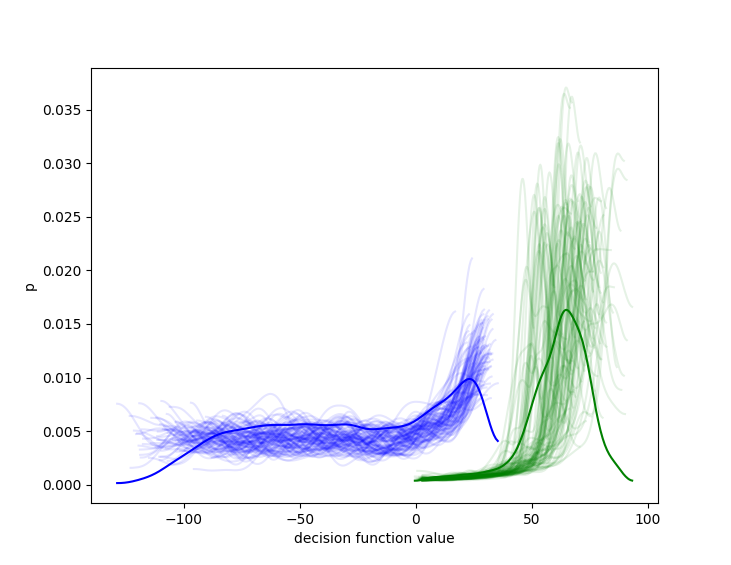
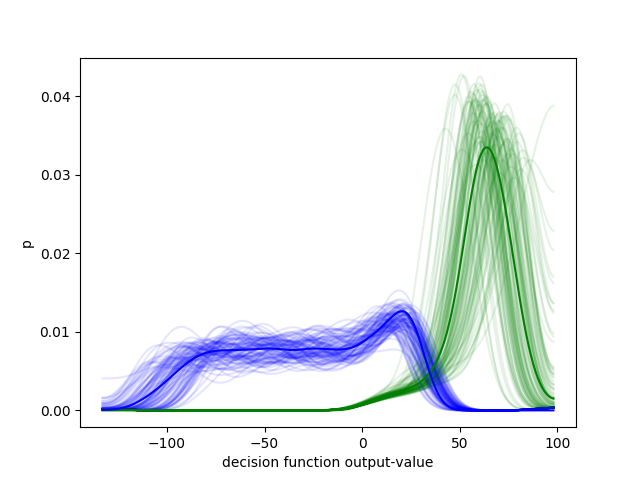
sync

diff --git a/statespace/decisions.py b/statespace/decisions.py
@@ -3,12 +3,40 @@ import matplotlib.pyplot as plt
 
 
 class DecisionsEns():
-    def __init__(self, title):
-        self.title = title
-        self.decisionfunctions = []
+    def __init__(self):
+        self.decisionfunctionssig = []
+        self.decisionfunctionsnoise = []
+        self.rocs = []
 
-    def update(self, decisionfunction):
-        self.decisionfunctions.append(decisionfunction)
+    def addsig(self, decisionfunction):
+        self.decisionfunctionssig.append(decisionfunction)
+
+    def addnoise(self, decisionfunction):
+        self.decisionfunctionsnoise.append(decisionfunction)
+
+    def plot_decisionfunctions(self):
+        from pymc3.plots.kdeplot import fast_kde
+        import matplotlib.pyplot as plt
+        globalmin = np.floor(np.min(self.decisionfunctionsnoise))
+        globalmax = np.ceil(np.max(self.decisionfunctionssig))
+        def pmf(vals):
+            vals = np.append(vals, [globalmin, globalmax])
+            pmf, min, max = fast_kde(vals, bw=4.5)
+            x = np.linspace(min, max, len(pmf))
+            pmf = pmf / sum(pmf)
+            return x, pmf
+        plt.figure()
+        for ndx in range(len(self.decisionfunctionssig)):
+            sigx, sigpmf = pmf(self.decisionfunctionssig[ndx])
+            noisex, noisepmf = pmf(self.decisionfunctionsnoise[ndx])
+            plt.plot(sigx, sigpmf, 'g', alpha=.1)
+            plt.plot(noisex, noisepmf, 'b', alpha=.1)
+        sigx, sigpmf = pmf(self.decisionfunctionssig)
+        noisex, noisepmf = pmf(self.decisionfunctionsnoise)
+        plt.plot(sigx, sigpmf, 'g')
+        plt.plot(noisex, noisepmf, 'b')
+        plt.xlabel('decision function output-value')
+        plt.ylabel('p')
 
 class Decisions():
     def __init__(self, mode, tracker):
@@ -28,40 +56,20 @@ class Decisions():
             else: decisionfunction[ndx] = decisionfunction[ndx-1] + delta
         return decisionfunction
 
-def rccircuit(runs, signal, title=None):
+def rccircuit(runs):
     from classical import Classical
-    ens = DecisionsEns(title)
+    ens = DecisionsEns()
     for runndx in range(runs):
-        tracker = Classical(mode='rccircuit', plot=False, signal=signal)
+        tracker = Classical(mode='rccircuit', plot=False, signal=300.)
         dec = Decisions(mode='rccircuit', tracker=tracker)
-        ens.update(decisionfunction=dec.decisionfunction)
+        ens.addsig(decisionfunction=dec.decisionfunction)
+        tracker = Classical(mode='rccircuit', plot=False, signal=0.)
+        dec = Decisions(mode='rccircuit', tracker=tracker)
+        ens.addnoise(decisionfunction=dec.decisionfunction)
     return ens
 
-def plot_ensemble_decision_function(enssig, ensnoise):
-    def pmf(vals):
-        pmf, min, max = fast_kde(vals, bw=4.5)
-        x = np.linspace(min, max, len(pmf))
-        pmf = pmf / sum(pmf)
-        return x, pmf
-    from pymc3.plots.kdeplot import fast_kde
-    import matplotlib.pyplot as plt
-    plt.figure()
-    for ndx in range(len(enssig.decisionfunctions)):
-        sigx, sigpmf = pmf(enssig.decisionfunctions[ndx])
-        noisex, noisepmf = pmf(ensnoise.decisionfunctions[ndx])
-        plt.plot(sigx, sigpmf, 'g', alpha=.1)
-        plt.plot(noisex, noisepmf, 'b', alpha=.1)
-    sigx, sigpmf = pmf(enssig.decisionfunctions)
-    noisex, noisepmf = pmf(ensnoise.decisionfunctions)
-    plt.plot(sigx, sigpmf, 'g')
-    plt.plot(noisex, noisepmf, 'b')
-    plt.xlabel('decision function value')
-    plt.ylabel('p')
-
 if __name__ == "__main__":
-    enssig = rccircuit(runs=100, signal=300., title='signal')
-    ensnoise = rccircuit(runs=100, signal=0., title='noise')
-    plot_ensemble_decision_function(enssig=enssig, ensnoise=ensnoise)
+    ens = rccircuit(runs=100)
+    ens.plot_decisionfunctions()
     plt.show()
-
     pass
